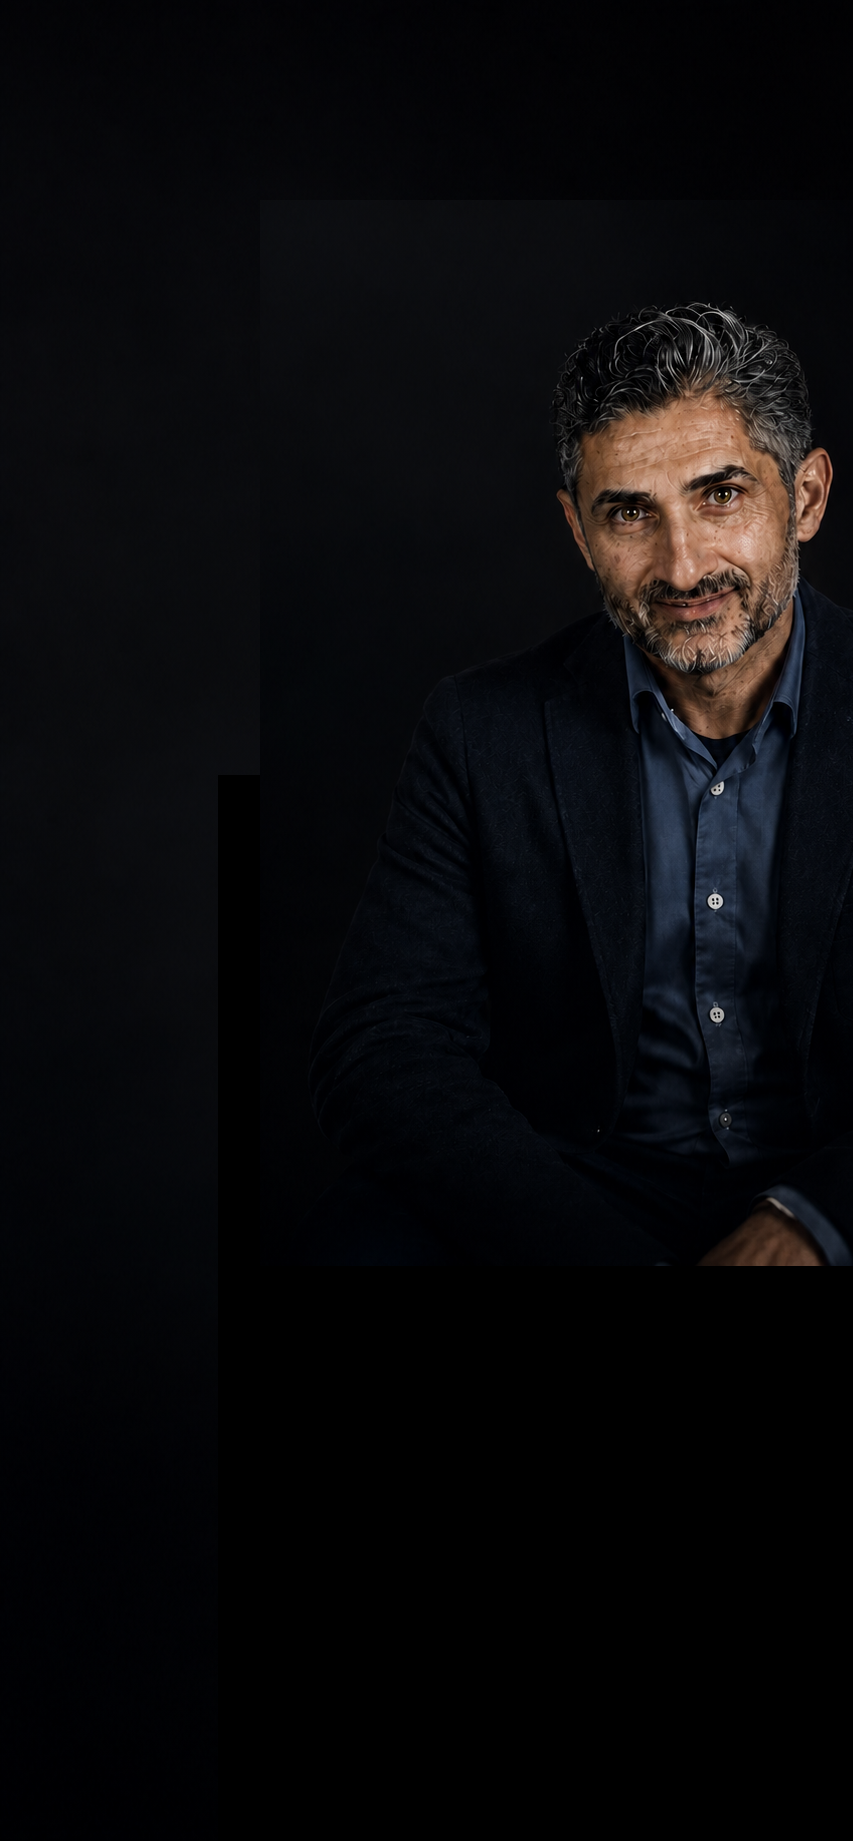
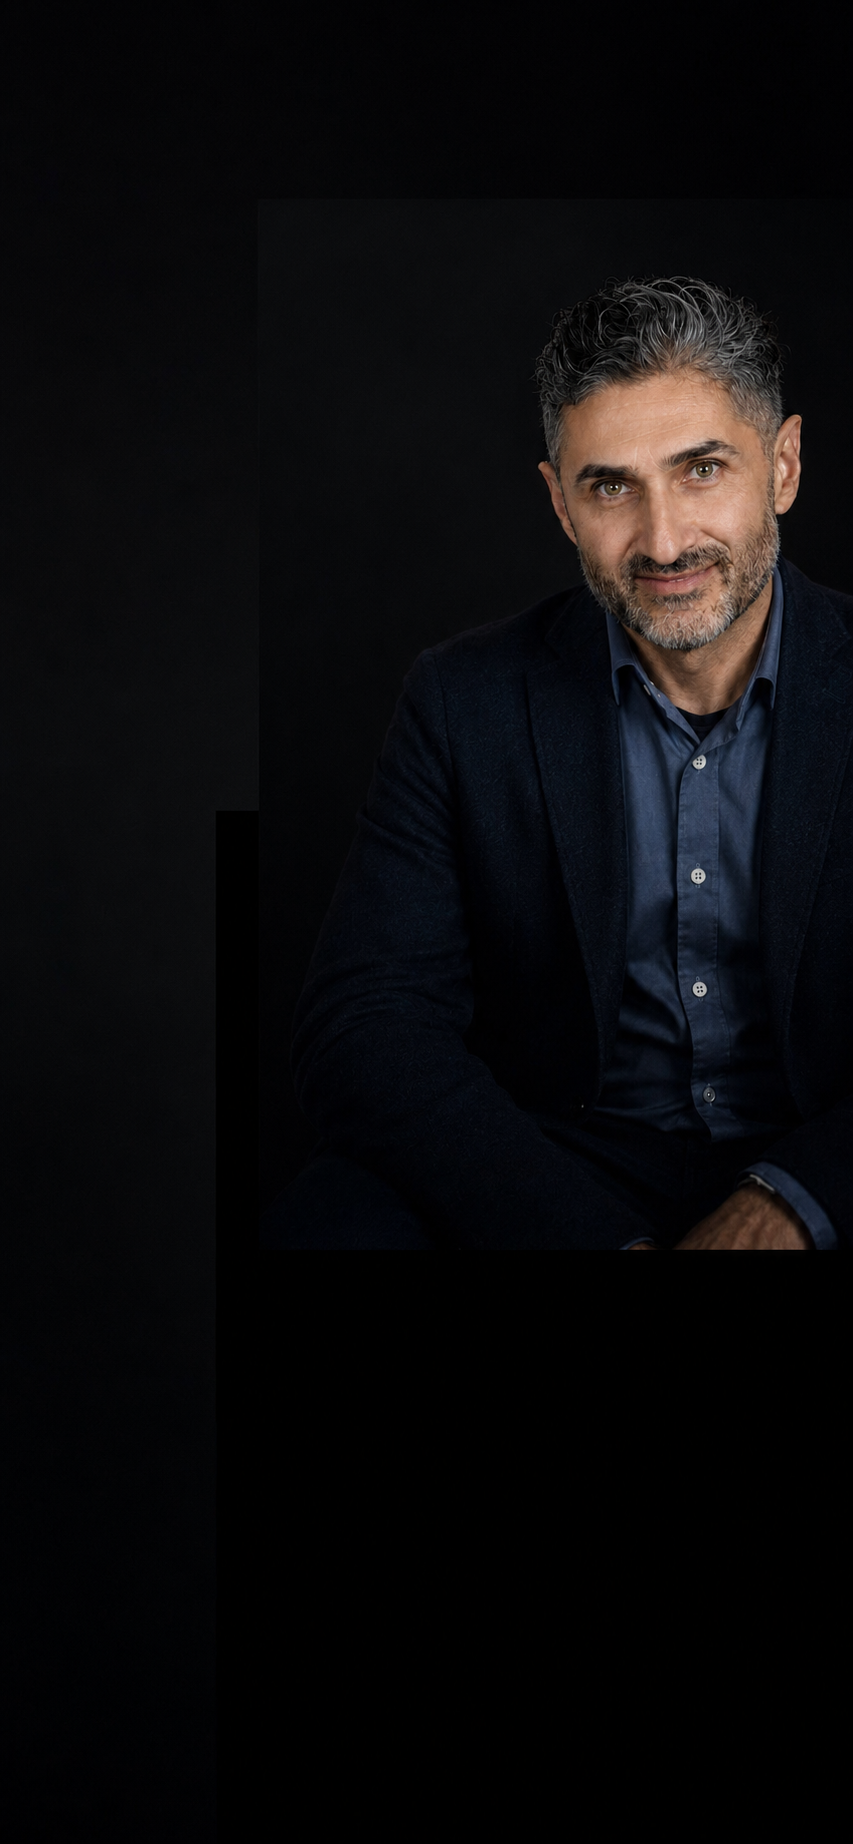
galerie angepasst

diff --git a/DEPLOYMENT.md b/DEPLOYMENT.md
@@ -8,3 +8,20 @@
 Auf den Webserver gehoert nur der Inhalt von `dist/`. `node_modules/`, `src/`, `package.json`, `vite.config.ts` und andere Entwicklungsdateien muessen nicht hochgeladen werden.
 
 Die Website ist eine statische One-Page-Site mit Anker-Navigation. Eine `.htaccess` ist dafuer nicht erforderlich.
+
+## Galerie aktualisieren
+
+Neue Galeriebilder koennen nach dem Deployment per FileZilla in `media/galerie/`
+hochgeladen werden. Danach den Dateinamen in `media/galerie/gallery.json`
+eintragen und die JSON-Datei ebenfalls hochladen:
+
+```json
+[
+  "dreh-in-dubai.jpg",
+  "neues-bild.jpg"
+]
+```
+
+Der Dateiname muss exakt dem Namen im Ordner `media/galerie/` entsprechen. Der
+Titel wird automatisch aus dem Dateinamen erzeugt, zum Beispiel wird
+`neues-bild.jpg` als `Neues Bild` angezeigt.
